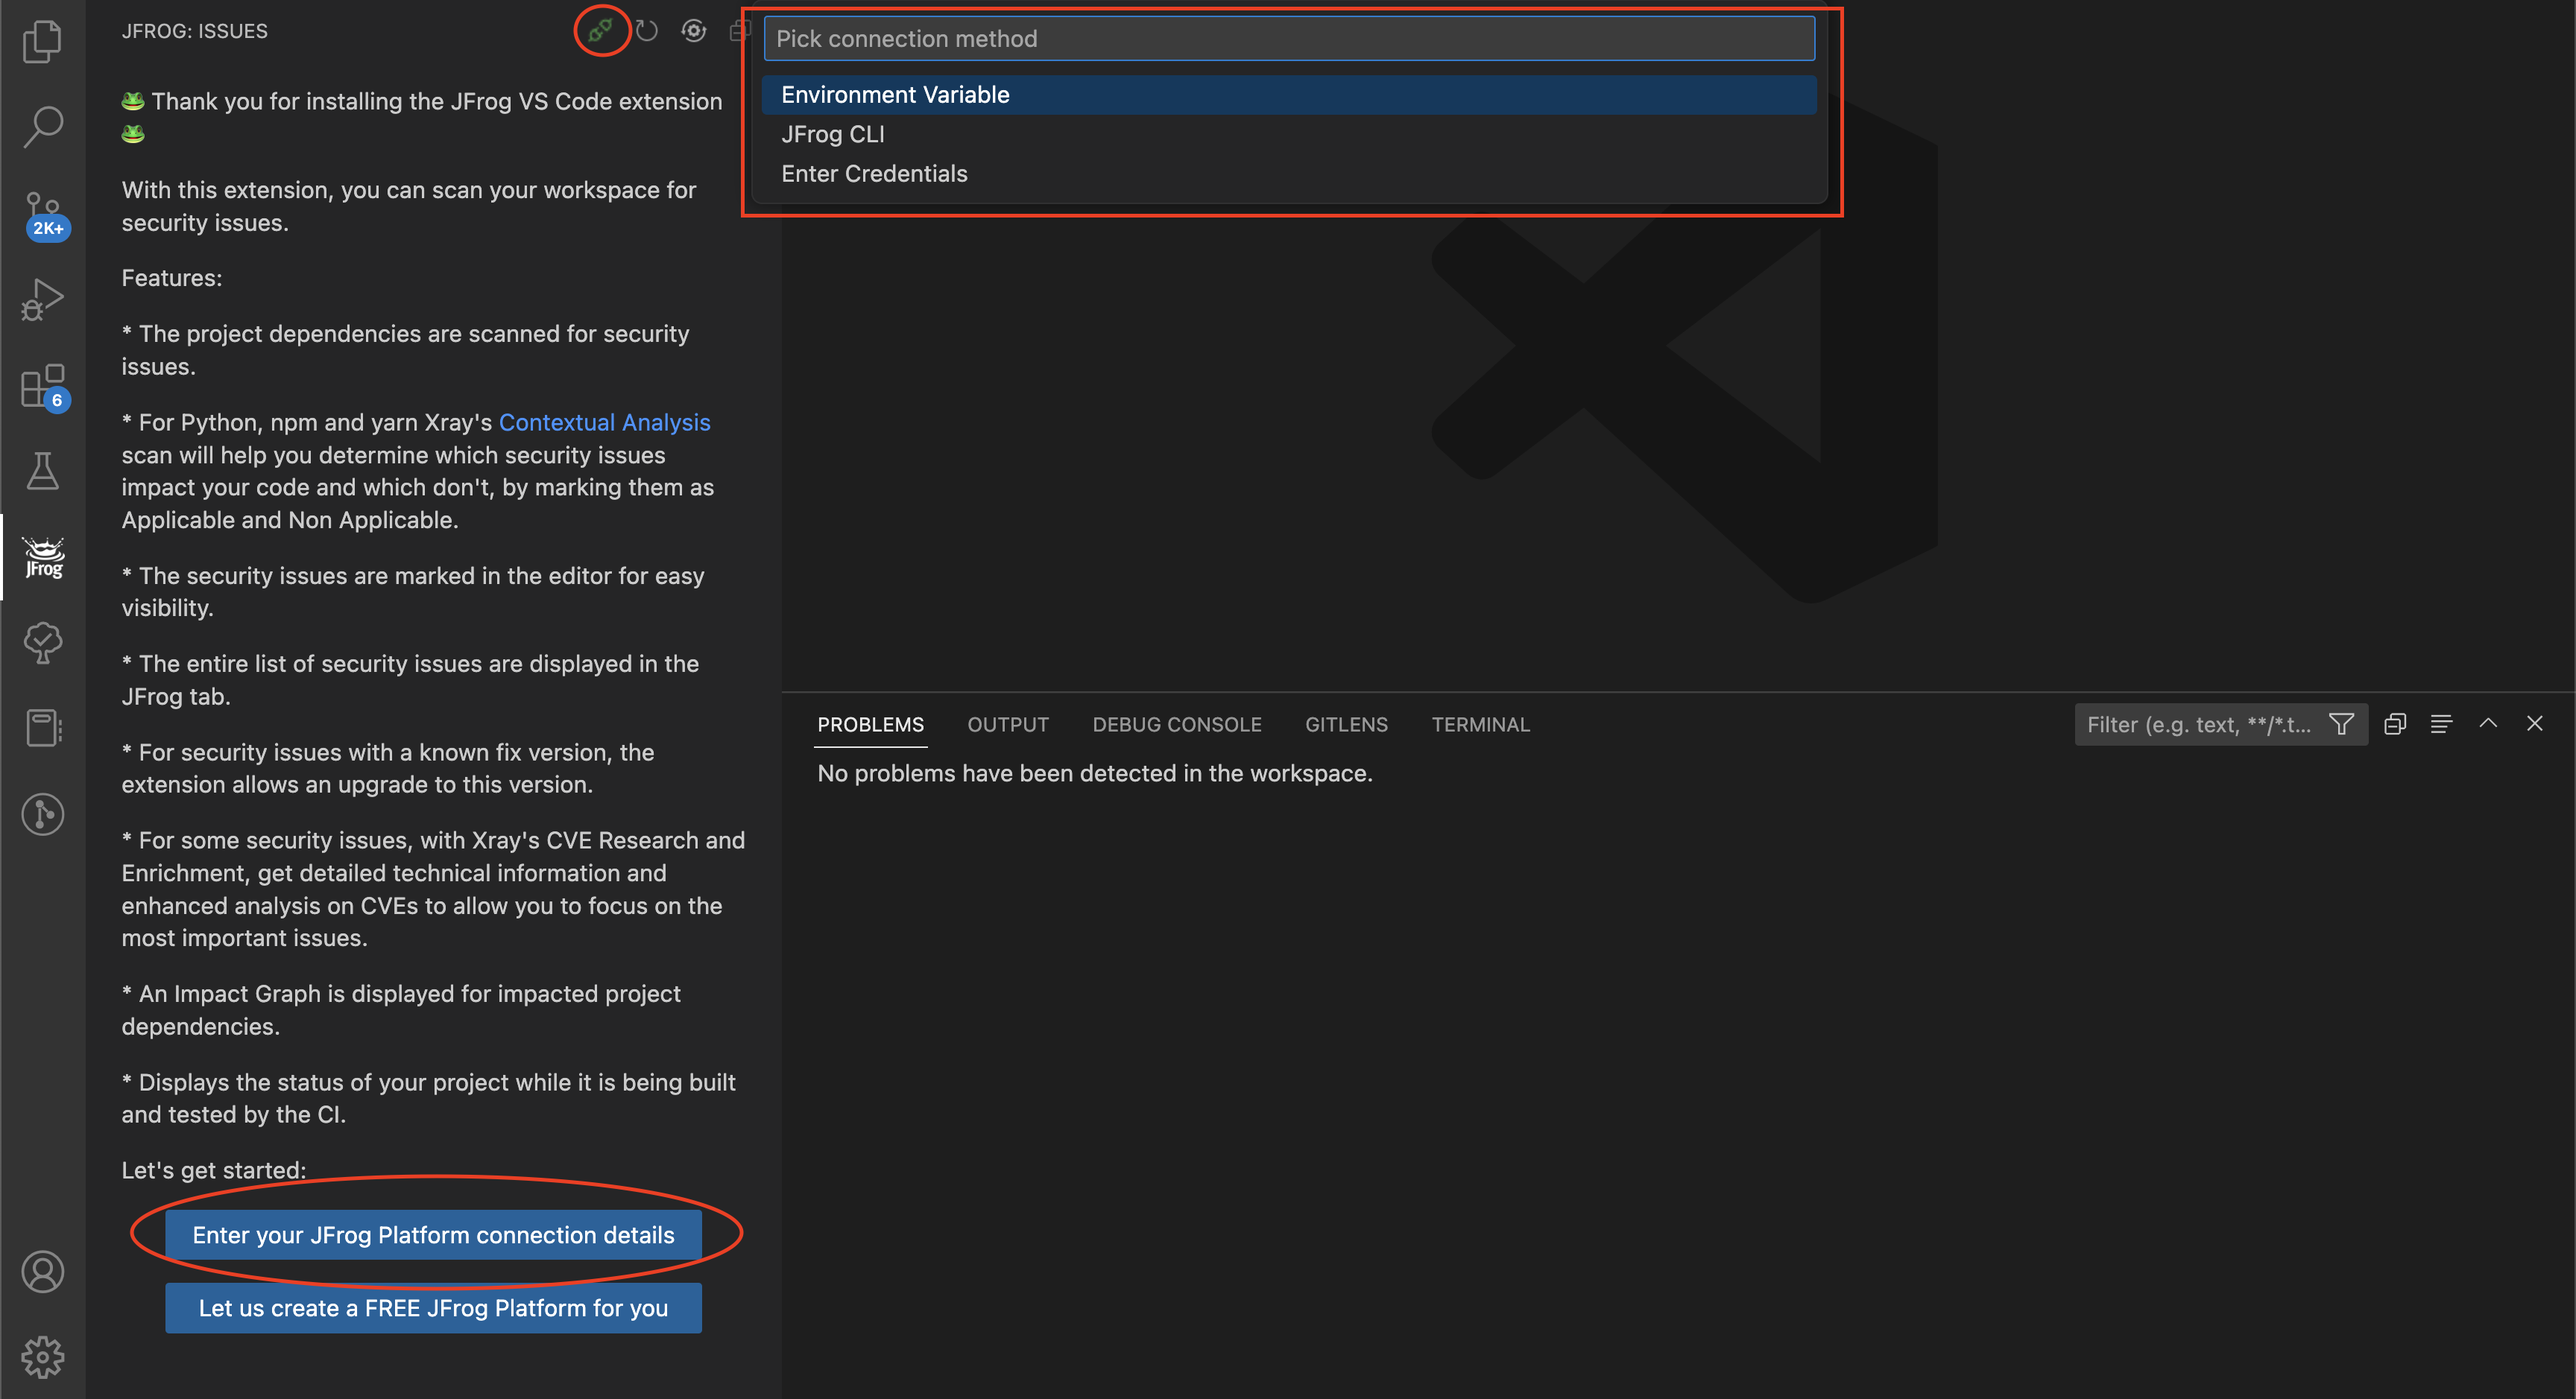
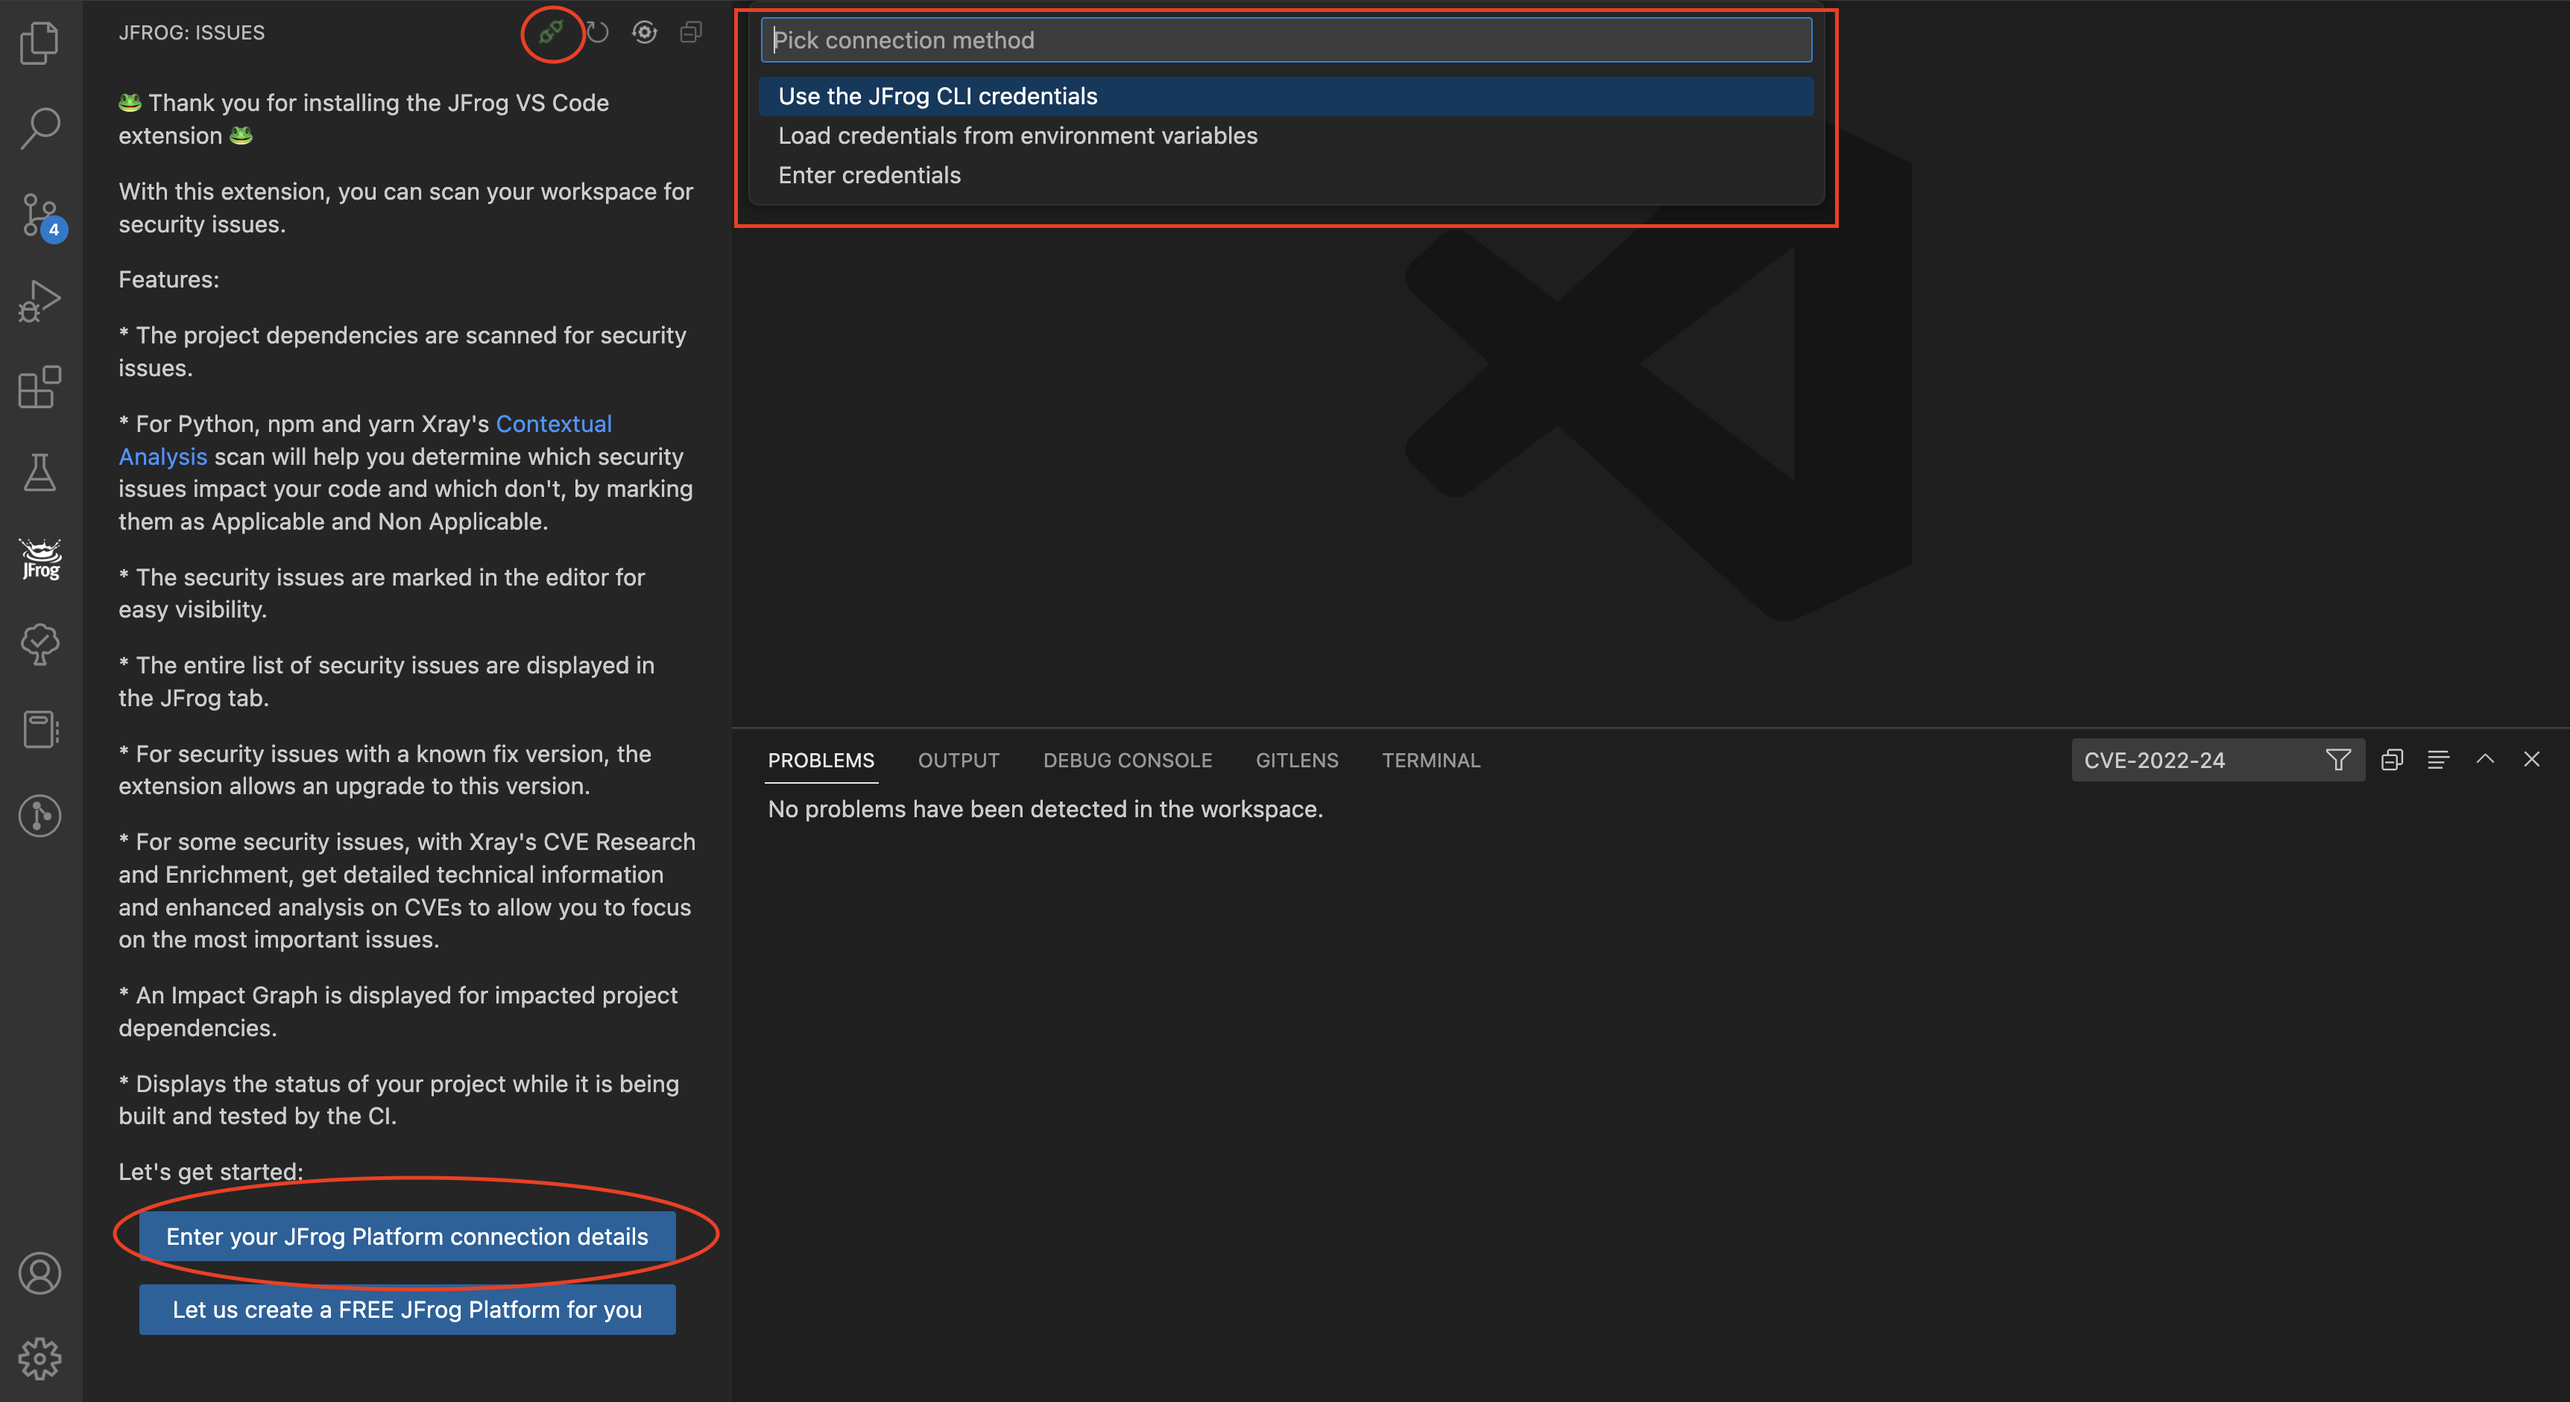
change options text

diff --git a/src/main/connect/connectionManager.ts b/src/main/connect/connectionManager.ts
@@ -18,9 +18,9 @@ import { ScanUtils } from '../utils/scanUtils';
 import { ContextKeys, SessionStatus } from '../constants/contextKeys';
 
 enum ConnectionMethod {
-    CLI = 'JFrog CLI',
-    EnvVar = 'Environment Variable',
-    Prompt = 'Enter Credentials'
+    CLI = 'Use the JFrog CLI credentials',
+    EnvVar = 'Load credentials from environment variables',
+    Prompt = 'Enter credentials'
 }
 
 /**
